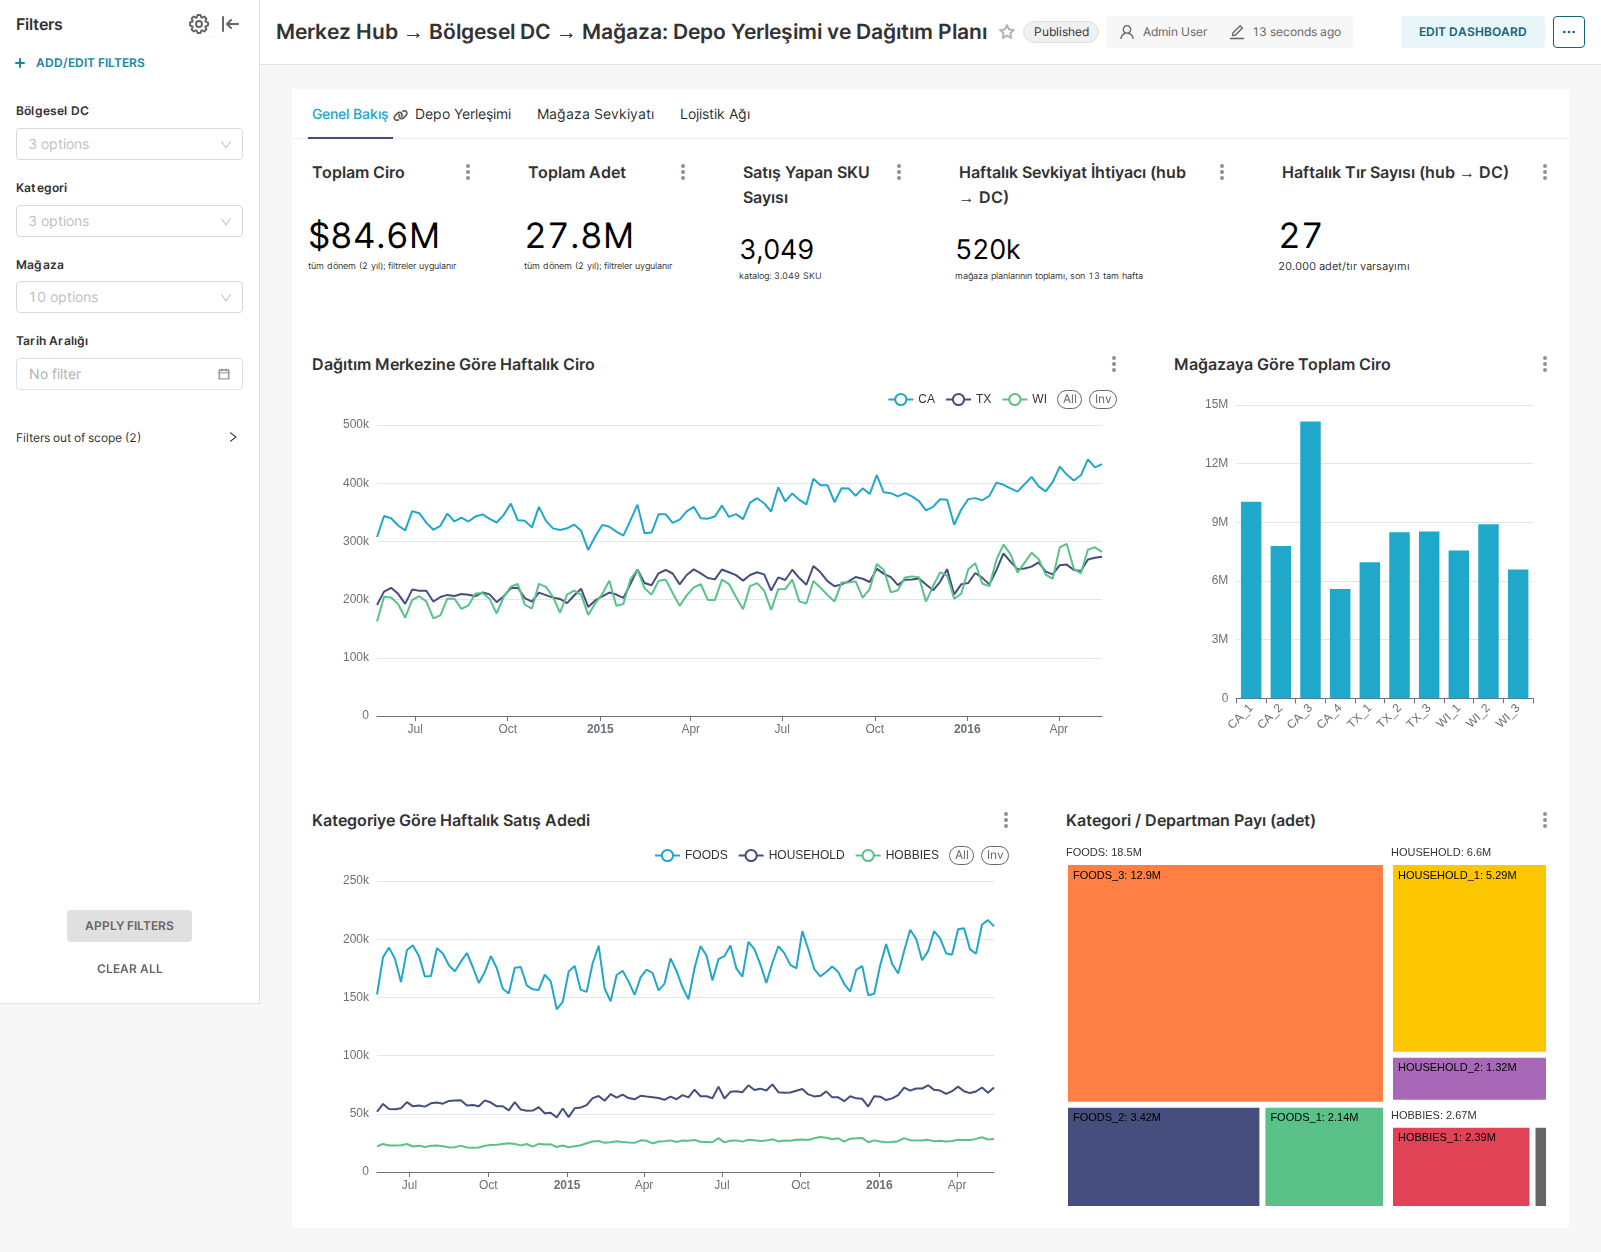
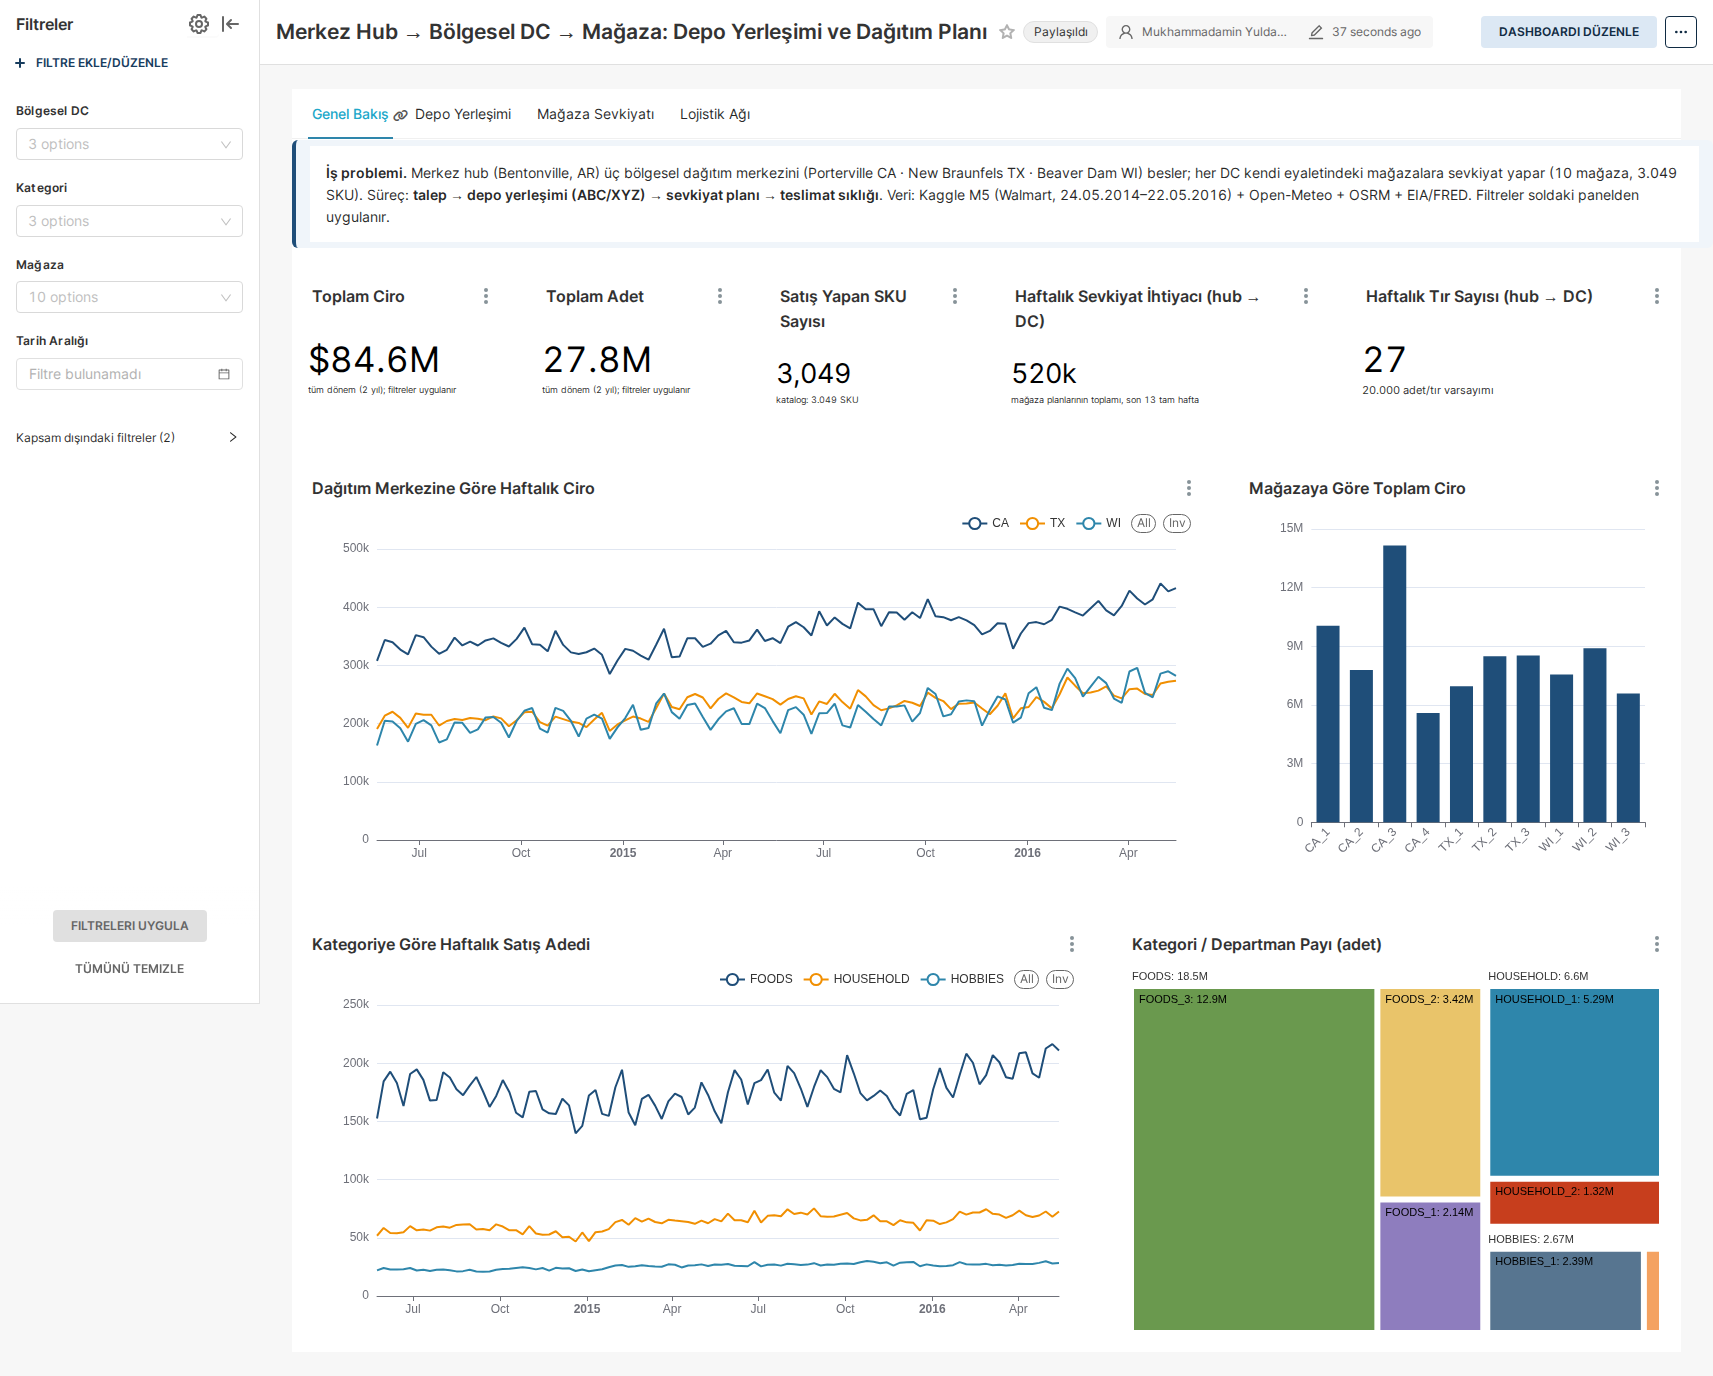
Superset özelleştirme: Grup 6 marka/tema, Türkçe arayüz, Türkçe sütun adları, bağlam blokları, rol modeli
APP_NAME/logo/favicon, THEME_OVERRIDES, Grup 6 renk paleti, BABEL tr; dataset verbose_name eşlemesi; sekme başına Markdown açıklama blokları ve dashboard CSS; Caddy erişim günlüğü. Rol: tek Admin + 'Grup6 Analist' (tüm veriyi görür, ayar değiştiremez).

diff --git a/superset/bootstrap_dashboard.py b/superset/bootstrap_dashboard.py
@@ -52,6 +52,46 @@ class Superset:
         return self.get(f"{path}/?q={json.dumps({'page_size': 100})}")["result"]
 
 
+# ---------- Türkçe sütun adları (dataset verbose_name) ----------
+VERBOSE = {
+    "dc_id": "Dağıtım merkezi", "dc_name": "Dağıtım merkezi adı", "dc_city": "DC şehri", "state_id": "Eyalet", "store_id": "Mağaza",
+    "store_city": "Mağaza şehri", "item_id": "SKU", "dept_id": "Departman", "cat_id": "Kategori", "date_day": "Tarih",
+    "week_start": "Hafta başlangıcı", "wm_yr_wk": "Walmart haftası", "sales_qty": "Satış adedi", "sell_price": "Fiyat (USD)",
+    "revenue": "Ciro (USD)", "units": "Adet", "zero_days": "Sıfır satış günü", "days_in_week": "Haftadaki gün", "is_complete_week": "Tam hafta",
+    "weekday_name": "Gün adı", "weekday_num": "Gün no", "weekday_label": "Haftanın günü", "is_weekend": "Hafta sonu", "is_event": "Etkinlik",
+    "event_type": "Etkinlik tipi", "event_name": "Etkinlik adı", "is_snap": "SNAP günü", "temp_mean_c": "Ort. sıcaklık (°C)",
+    "precipitation_mm": "Yağış (mm)", "is_rainy": "Yağışlı", "units_52w": "Adet (52 hafta)", "revenue_52w": "Ciro (52 hafta)",
+    "active_weeks": "Listede olduğu hafta", "avg_weekly_units": "Ort. haftalık adet", "cv_weekly": "Değişkenlik (CV)",
+    "zero_day_share": "Sıfır satış günü oranı", "cum_revenue_share": "Kümülatif ciro payı", "picking_rank": "Toplama sırası",
+    "abc_class": "ABC sınıfı", "xyz_class": "XYZ sınıfı", "abc_xyz": "ABC-XYZ", "warehouse_zone": "Depo bölgesi", "zone_label": "Depo bölgesi (sıralı)",
+    "std_weekly_units": "Haftalık std. sapma", "max_weekly_units": "Maks. haftalık adet", "units_13w": "Adet (13 hafta)",
+    "safety_stock": "Emniyet stoku", "recommended_weekly_qty": "Önerilen haftalık sevkiyat", "avg_unit_price": "Ort. birim fiyat (USD)",
+    "day_type": "Gün tipi", "weather_type": "Hava tipi", "n_days": "Gün sayısı", "avg_units_per_sku": "SKU başına ort. adet",
+    "baseline_units": "Taban çizgisi", "lift_vs_baseline": "Artış (taban çizgisine göre)",
+    "deliveries_per_week": "Haftalık teslimat sayısı", "optimal_deliveries_per_week": "Optimum teslimat/hafta", "schedule_label": "Teslimat programı",
+    "trips_per_week": "Sefer/hafta", "weekly_qty": "Haftalık adet", "weekly_value_usd": "Haftalık değer (USD)", "distance_km": "Mesafe (km)",
+    "distance_miles": "Mesafe (mil)", "duration_min": "Süre (dk)", "duration_hours": "Sürüş süresi (saat)", "lead_time_days": "Tedarik süresi (gün)",
+    "diesel_usd_gal": "Dizel (USD/gal)", "cost_per_mile_usd": "Mil maliyeti (USD)", "round_trip_cost_usd": "Gidiş-dönüş maliyeti (USD)",
+    "transport_cost_week_usd": "Haftalık taşıma maliyeti (USD)", "holding_cost_week_usd": "Haftalık stok maliyeti (USD)",
+    "total_cost_week_usd": "Haftalık toplam maliyet (USD)", "transport_cost_per_unit_usd": "Adet başına taşıma (USD)",
+    "trucks_per_week": "Tır/hafta", "pipeline_stock_units": "Yoldaki stok (adet)", "n_stores": "Mağaza sayısı", "leg_type": "Bacak tipi",
+    "origin_id": "Çıkış", "dest_id": "Varış", "method": "Yöntem", "city": "Şehir", "latitude": "Enlem", "longitude": "Boylam",
+    "dc_level": "Depo seviyesi", "walmart_dc_number": "Walmart DC no", "source_note": "Kaynak notu",
+}
+COLUMN_KEEP = ("id", "column_name", "verbose_name", "description", "type", "is_dttm", "is_active", "groupby", "filterable",
+               "expression", "python_date_format", "extra", "advanced_data_type", "uuid")
+
+
+def apply_verbose_names(api, dataset_id):
+    d = api.get(f"/dataset/{dataset_id}")["result"]
+    cols = []
+    for c in d["columns"]:
+        c2 = {k: c[k] for k in COLUMN_KEEP if k in c and c[k] is not None}
+        c2["verbose_name"] = VERBOSE.get(c["column_name"], c.get("verbose_name") or c["column_name"])
+        cols.append(c2)
+    api.put(f"/dataset/{dataset_id}", {"columns": cols})
+
+
 # ---------- helpers for chart params ----------
 def sql_metric(expr, label):
     return {"expressionType": "SQL", "sqlExpression": expr, "label": label, "hasCustomLabel": True}
@@ -82,7 +122,7 @@ def line(ds, title, x, metrics, groupby=(), filters=()):
         "metrics": metrics, "groupby": list(groupby), "adhoc_filters": list(filters), "order_desc": True,
         "row_limit": 10000, "truncate_metric": True, "show_legend": True, "legendType": "scroll", "legendOrientation": "top",
         "rich_tooltip": True, "tooltipSortByMetric": True, "y_axis_format": "SMART_NUMBER", "x_axis_time_format": "smart_date",
-        "color_scheme": "supersetColors", "markerEnabled": False, "seriesType": "line", "area": False, "opacity": 0.2,
+        "color_scheme": "grup6", "markerEnabled": False, "seriesType": "line", "area": False, "opacity": 0.2,
     })
 
 
@@ -94,7 +134,7 @@ def bar(ds, title, x, metrics, groupby=(), stack=False, sort_by_metric=False, ro
         "viz_type": "echarts_timeseries_bar", "x_axis": x, "time_grain_sqla": None, "metrics": metrics,
         "groupby": list(groupby), "adhoc_filters": list(filters), "order_desc": True, "row_limit": row_limit,
         "truncate_metric": True, "show_legend": bool(groupby) or len(metrics) > 1, "legendOrientation": "top",
-        "rich_tooltip": True, "y_axis_format": y_fmt, "color_scheme": "supersetColors", "stack": stack,
+        "rich_tooltip": True, "y_axis_format": y_fmt, "color_scheme": "grup6", "stack": stack,
         "orientation": "vertical", "show_value": show_values, "only_total": True,
         "x_axis_sort_series": "name", "x_axis_sort_series_ascending": True, "xAxisLabelRotation": rotate,
     }
@@ -109,14 +149,14 @@ def heatmap(ds, title, x, y, metric):
         "viz_type": "heatmap_v2", "x_axis": x, "groupby": y, "metric": metric, "adhoc_filters": [],
         "row_limit": 10000, "sort_x_axis": "alpha_asc", "sort_y_axis": "alpha_asc", "normalize_across": "heatmap",
         "legend_type": "continuous", "show_legend": True, "show_percentage": False, "show_values": True,
-        "linear_color_scheme": "superset_seq_1", "value_bounds": [None, None], "y_axis_format": "SMART_NUMBER",
+        "linear_color_scheme": "grup6_seq", "value_bounds": [None, None], "y_axis_format": "SMART_NUMBER",
     })
 
 
 def treemap(ds, title, groupby, metric, filters=()):
     return dict(slice_name=title, viz_type="treemap_v2", ds=ds, dims=list(groupby), params={
         "viz_type": "treemap_v2", "groupby": list(groupby), "metric": metric, "adhoc_filters": list(filters),
-        "row_limit": 500, "color_scheme": "supersetColors", "show_labels": True, "show_upper_labels": True,
+        "row_limit": 500, "color_scheme": "grup6", "show_labels": True, "show_upper_labels": True,
         "label_type": "key_value", "number_format": "SMART_NUMBER",
     })
 
@@ -150,6 +190,16 @@ class Layout:
         self.pos["TABS-main"]["children"].append(tid)
         self.tabs.append(tid)
         return tid
+
+    def markdown(self, tid, text, height=22):
+        self.n += 1
+        rid = f"ROW-{self.n}"; parents = ["ROOT_ID", "GRID_ID", "TABS-main", tid]
+        self.pos[rid] = {"type": "ROW", "id": rid, "children": [], "parents": parents, "meta": {"background": "BACKGROUND_TRANSPARENT"}}
+        self.pos[tid]["children"].append(rid)
+        self.n += 1
+        mid = f"MARKDOWN-{self.n}"
+        self.pos[mid] = {"type": "MARKDOWN", "id": mid, "children": [], "parents": parents + [rid], "meta": {"width": 12, "height": height, "code": text}}
+        self.pos[rid]["children"].append(mid)
 
     def row(self, tid, charts, height):
         self.n += 1
@@ -194,6 +244,7 @@ def main():
         else:
             ds[t] = api.post("/dataset/", {"database": db_id, "schema": SCHEMA, "table_name": t})["id"]
         cols[ds[t]] = {c["column_name"] for c in api.get(f"/dataset/{ds[t]}")["result"]["columns"]}
+        apply_verbose_names(api, ds[t])
     print("datasets", ds)
 
     # 3) wipe old dashboard + its charts
@@ -286,17 +337,28 @@ def main():
     # 5) layout
     L = Layout(DASH_TITLE)
     t1 = L.tab("overview", "Genel Bakış")
+    L.markdown(t1, "**İş problemi.** Merkez hub (Bentonville, AR) üç bölgesel dağıtım merkezini (Porterville CA · New Braunfels TX · Beaver Dam WI) besler; "
+                   "her DC kendi eyaletindeki mağazalara sevkiyat yapar (10 mağaza, 3.049 SKU). Süreç: **talep → depo yerleşimi (ABC/XYZ) → sevkiyat planı → teslimat sıklığı**. "
+                   "Veri: Kaggle M5 (Walmart, 24.05.2014–22.05.2016) + Open-Meteo + OSRM + EIA/FRED. Filtreler soldaki panelden uygulanır.", 12)
     L.row(t1, [(charts["kpi_rev"], 2), (charts["kpi_units"], 2), (charts["kpi_sku"], 2), (charts["kpi_need"], 3), (charts["kpi_trucks"], 3)], 22)
     L.row(t1, [(charts["line_rev"], 8), (charts["bar_store"], 4)], 55)
     L.row(t1, [(charts["line_cat"], 7), (charts["tree_dept"], 5)], 55)
     t2 = L.tab("layout", "Depo Yerleşimi")
+    L.markdown(t2, "**ABC** = ciro payı (A: ilk %80, B: %80–95, C: kalan) · **XYZ** = haftalık talep düzensizliği (X: CV<0,5 düzenli, Y: <1,0, Z: ≥1,0). "
+                   "**Depo bölgesi:** 🟧 **HOT** (AX, AY) rampaya yakın hızlı toplama · 🟦 **WARM** (AZ, BX, BY) orta · ⬜ **COLD** (BZ, C*) uzak raf, düşük toplama sıklığı. "
+                   "Sol üstteki *Depo Seviyesi* filtresiyle hub veya tek bir bölgesel DC seçin — sınıflar her depo için ayrı hesaplanır (son 52 tam hafta).", 12)
     L.row(t2, [(charts["kpi_a"], 3), (charts["kpi_hot"], 3), (charts["kpi_cold"], 3), (charts["heat"], 3)], 40)
     L.row(t2, [(charts["bar_zone"], 4), (charts["bar_zone_share"], 4), (charts["bar_zero"], 4)], 50)
     L.row(t2, [(charts["bar_zone_dept"], 5), (charts["tbl_sku"], 7)], 70)
     t3 = L.tab("replenishment", "Mağaza Sevkiyatı")
+    L.markdown(t3, "**Önerilen haftalık sevkiyat** = son 13 tam haftanın ortalama talebi + emniyet stoku (1,65 × σ, %95 hizmet seviyesi, tedarik süresi 1 hafta). "
+                   "Takvim etkileri (hafta sonu, SNAP, etkinlik, yağış) sevkiyatın hangi günlere yoğunlaştırılacağını gösterir.", 10)
     L.row(t3, [(charts["bar_rep"], 4), (charts["bar_wd"], 4), (charts["bar_cal"], 4)], 55)
     L.row(t3, [(charts["bar_wx"], 4), (charts["tbl_rep"], 8)], 70)
     t4 = L.tab("logistics", "Lojistik Ağı")
+    L.markdown(t4, "**Sefer maliyeti** = gidiş-dönüş mil × [(ATRI 2016 toplam − yakıt) + bölgesel dizel / 6,5 mpg]. **Teslimat sıklığı** haftada 1/2/3/5/7 seçenekleri arasından "
+                   "*taşıma + stok taşıma* toplamını en küçükleyen seçilir (tır kapasitesi 20.000 adet, yıllık stok taşıma oranı %25). "
+                   "Mesafe ve süreler OSRM/OpenStreetMap yol ağından; DC konumları gerçek Walmart RDC adresleri, hub ve mağaza şehirleri varsayımdır.", 12)
     L.row(t4, [(charts["kpi_hubcost"], 4), (charts["kpi_storecost"], 4), (charts["kpi_lead"], 4)], 22)
     L.row(t4, [(charts["bar_hub"], 3), (charts["bar_hubunit"], 3), (charts["bar_freq"], 3), (charts["bar_opt"], 3)], 50)
     L.row(t4, [(charts["tbl_hub"], 12)], 35)
@@ -338,10 +400,14 @@ def main():
         scope = [o["id"] for o in charts.values() if o["id"] != c["id"] and c["dims"] and set(c["dims"]) <= cols[o["ds"]]]
         chart_cfg[str(c["id"])] = {"id": c["id"], "crossFilters": {"scope": {"rootPath": ["ROOT_ID"], "excluded": [i for i in all_ids if i not in scope and i != c["id"]]},
                                                                 "chartsInScope": scope}}
-    json_metadata = {"native_filter_configuration": filters, "color_scheme": "supersetColors", "refresh_frequency": 0,
+    json_metadata = {"native_filter_configuration": filters, "color_scheme": "grup6", "refresh_frequency": 0,
                      "expanded_slices": {}, "label_colors": {}, "timed_refresh_immune_slices": [], "cross_filters_enabled": True,
                      "default_filters": "{}", "chart_configuration": chart_cfg}
-    api.put(f"/dashboard/{dash_id}", {"position_json": json.dumps(L.pos), "json_metadata": json.dumps(json_metadata), "published": True})
+    css = """
+.dashboard-markdown { background:#F0F5FA; border-left:4px solid #1F4E79; border-radius:6px; padding:6px 14px; }
+.dashboard-component-chart-holder .header-title { color:#1F4E79; }
+"""
+    api.put(f"/dashboard/{dash_id}", {"position_json": json.dumps(L.pos), "json_metadata": json.dumps(json_metadata), "published": True, "css": css})
     print(f"dashboard ready: {a.base_url}/superset/dashboard/{DASH_SLUG}/")
 
 

diff --git a/superset/superset_config.py b/superset/superset_config.py
@@ -11,3 +11,31 @@ ROW_LIMIT = 50000
 SQLLAB_TIMEOUT = 120
 SUPERSET_WEBSERVER_TIMEOUT = 120
 TALISMAN_ENABLED = False
+
+# ---------------- Marka / görünüm (Grup 6) ----------------
+APP_NAME = "DC Planning · Grup 6"
+APP_ICON = "/static/assets/images/custom/logo.svg"
+APP_ICON_WIDTH = 300
+LOGO_TARGET_PATH = "/superset/dashboard/dc-planning/"
+LOGO_TOOLTIP = "Bölgesel Dağıtım Merkezi Planlama Dashboard'u"
+FAVICONS = [{"href": "/static/assets/images/custom/favicon.svg"}]
+THEME_OVERRIDES = {
+    "colors": {
+        "primary": {"base": "#1F4E79", "dark1": "#173C5E", "dark2": "#102B43", "light1": "#3A6EA5", "light2": "#7FA6CF",
+                    "light3": "#B8D0E8", "light4": "#DCE8F4", "light5": "#F0F5FA"},
+        "secondary": {"base": "#2E86AB"},
+    },
+    "typography": {"families": {"sansSerif": "Inter, 'Segoe UI', Helvetica, Arial, sans-serif"}},
+}
+BABEL_DEFAULT_LOCALE = "tr"
+LANGUAGES = {"tr": {"flag": "tr", "name": "Türkçe"}, "en": {"flag": "us", "name": "English"}}
+EXTRA_CATEGORICAL_COLOR_SCHEMES = [{
+    "id": "grup6", "label": "Grup 6", "isDefault": True,
+    "colors": ["#1F4E79", "#F18F01", "#2E86AB", "#C73E1D", "#6A994E", "#8E7DBE", "#E9C46A", "#577590", "#F4A261", "#264653"],
+}]
+EXTRA_SEQUENTIAL_COLOR_SCHEMES = [{
+    "id": "grup6_seq", "label": "Grup 6 (sıralı)", "isDiverging": False,
+    "colors": ["#F0F5FA", "#B8D0E8", "#7FA6CF", "#3A6EA5", "#1F4E79", "#102B43"],
+}]
+FEATURE_FLAGS.update({"DASHBOARD_RBAC": True, "TAGGING_SYSTEM": True, "ENABLE_TEMPLATE_PROCESSING": True})
+CONTENT_SECURITY_POLICY_WARNING = False
